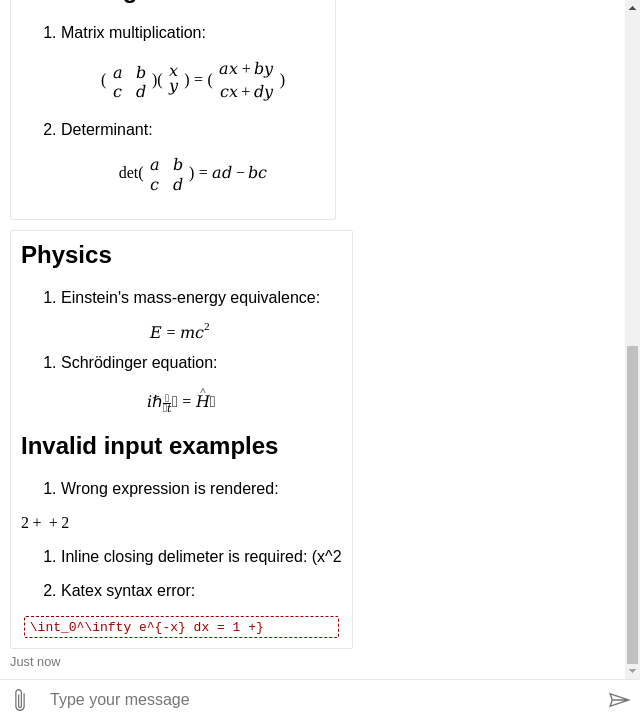
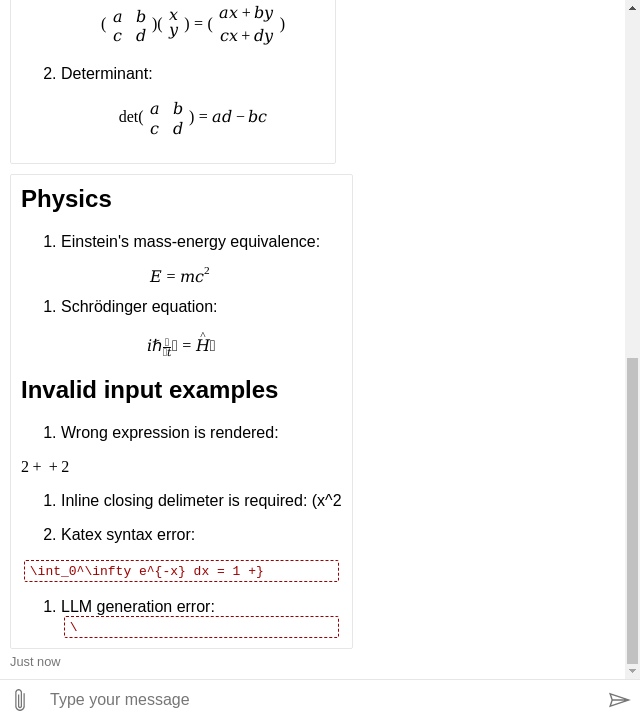
fix: math parsing hangs webchat (#5377)
* fix: math parsing hangs

* Snaps

* Changelog

* Update packages/bundle/src/markdown/mathExtension/tokenizer.ts

* Update packages/bundle/src/markdown/mathExtension/tokenizer.ts

---------

diff --git a/packages/bundle/src/markdown/mathExtension/tokenizer.ts b/packages/bundle/src/markdown/mathExtension/tokenizer.ts
@@ -41,7 +41,7 @@ export function createTokenizer(effects: MathEffects, ok: State, nok: State) {
 
     if (code === BACKSLASH) {
       effects.consume(code);
-      return escaped;
+      return maybeCloseDelimiter;
     }
 
     effects.consume(code);
@@ -54,7 +54,7 @@ export function createTokenizer(effects: MathEffects, ok: State, nok: State) {
     return content;
   }
 
-  function escaped(code) {
+  function maybeCloseDelimiter(code: Code): State {
     if ((!isDisplay && code === CLOSE_PAREN) || (isDisplay && code === CLOSE_BRACKET)) {
       effects.consume(code);
       effects.exit('mathChunk');
@@ -62,7 +62,6 @@ export function createTokenizer(effects: MathEffects, ok: State, nok: State) {
       return ok(code);
     }
 
-    effects.consume(code);
-    return content;
+    return content(code);
   }
 }

diff --git a/__tests__/html2/markdown/math3.html b/__tests__/html2/markdown/math3.html
@@ -91,6 +91,11 @@ c & d
 
 14. Katex syntax error:
 \[\int_0^\infty e^{-x} dx = 1 +}\]
+
+15. LLM generation error:
+\[
+\
+\]
     </x-message>
   </template>
   <main id="webchat"></main>

diff --git a/CHANGELOG.md b/CHANGELOG.md
@@ -106,6 +106,7 @@ Notes: web developers are advised to use [`~` (tilde range)](https://github.com/
 -  Resolved CSS class name conflicts between component and fluent packages to prevent styling issues, in PR [#5326](https://github.com/microsoft/BotFramework-WebChat/pull/5326), in PR [#5327](https://github.com/microsoft/BotFramework-WebChat/pull/5327), by [@OEvgeny](https://github.com/OEvgeny)
 -  Fixed [#5350](https://github.com/microsoft/BotFramework-WebChat/issues/pull/5350). Bundled `shiki` in component package, in PR [#5349](https://github.com/microsoft/BotFramework-WebChat/pull5349), by [@compulim](https://github.com/compulim)
 -  Fixed modal dialog rendering to prevent visual flicker and improve UX when opening code views, in PR [#5374](https://github.com/microsoft/BotFramework-WebChat/pull/5374), by [@OEvgeny](https://github.com/OEvgeny)
+-  Fixed math parsing that could cause Web Chat to hang when processing certain LaTeX expressions, in PR [#5377](https://github.com/microsoft/BotFramework-WebChat/pull/5377), by [@OEvgeny](https://github.com/OEvgeny)
 
 # Removed
 
